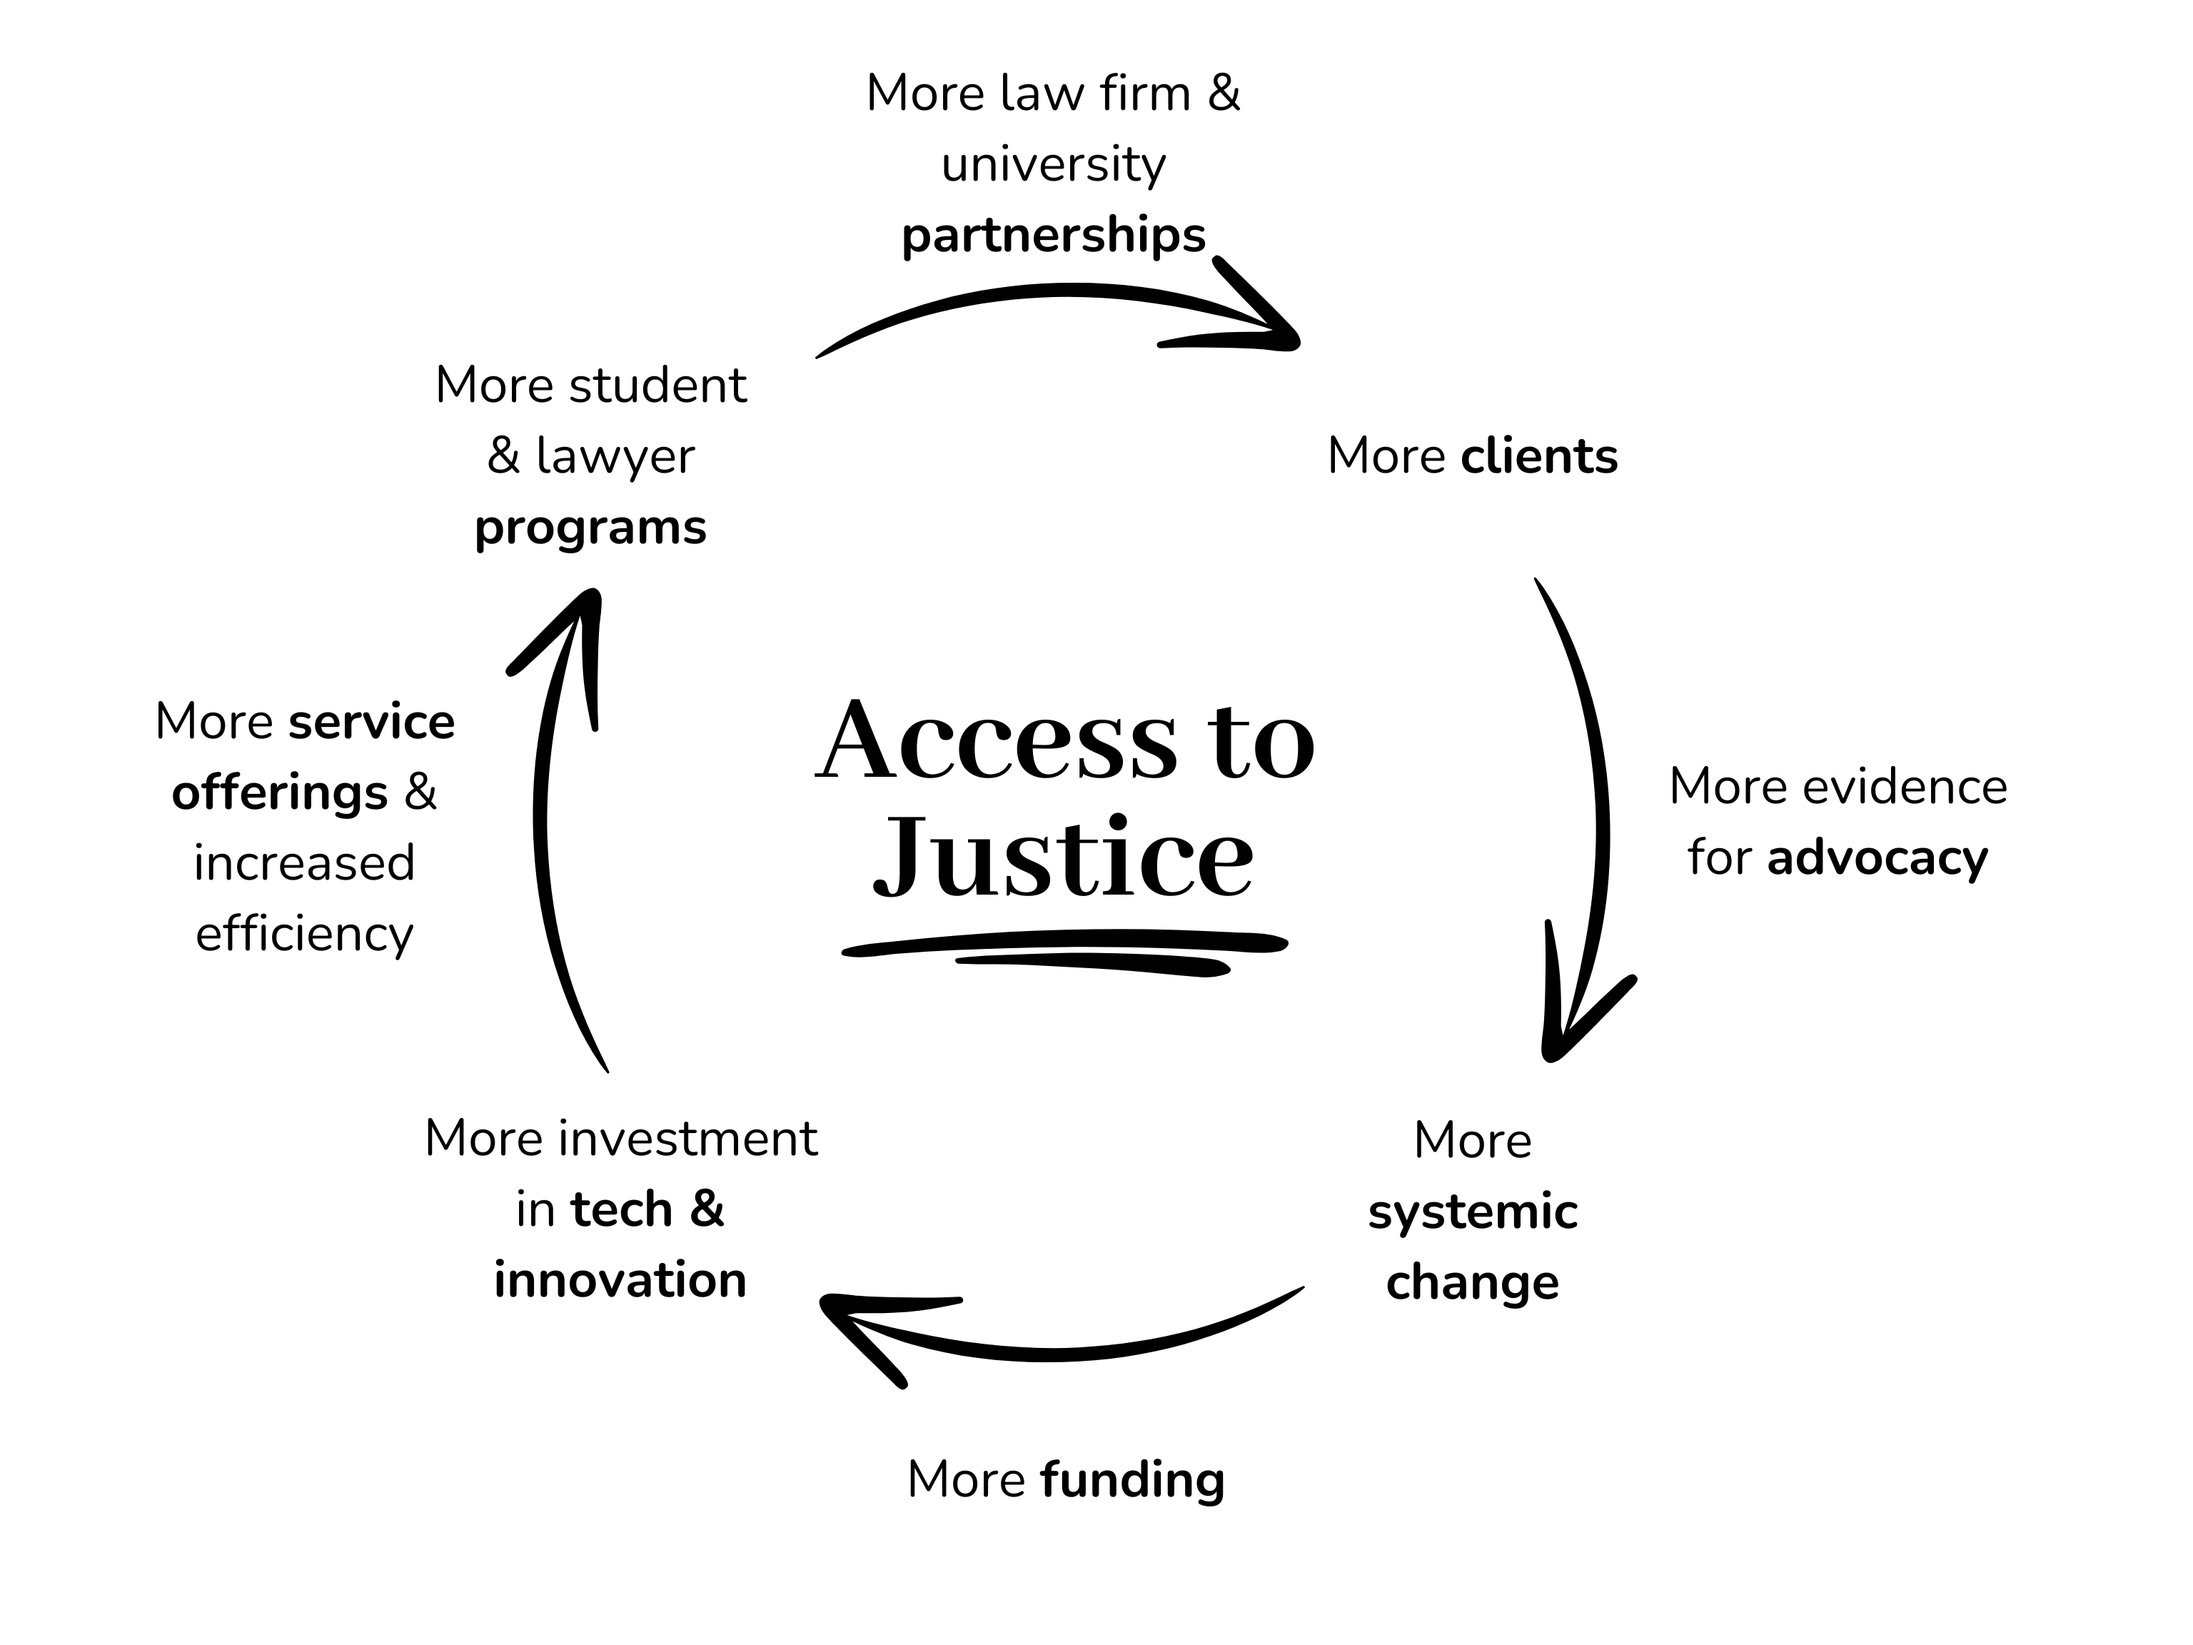
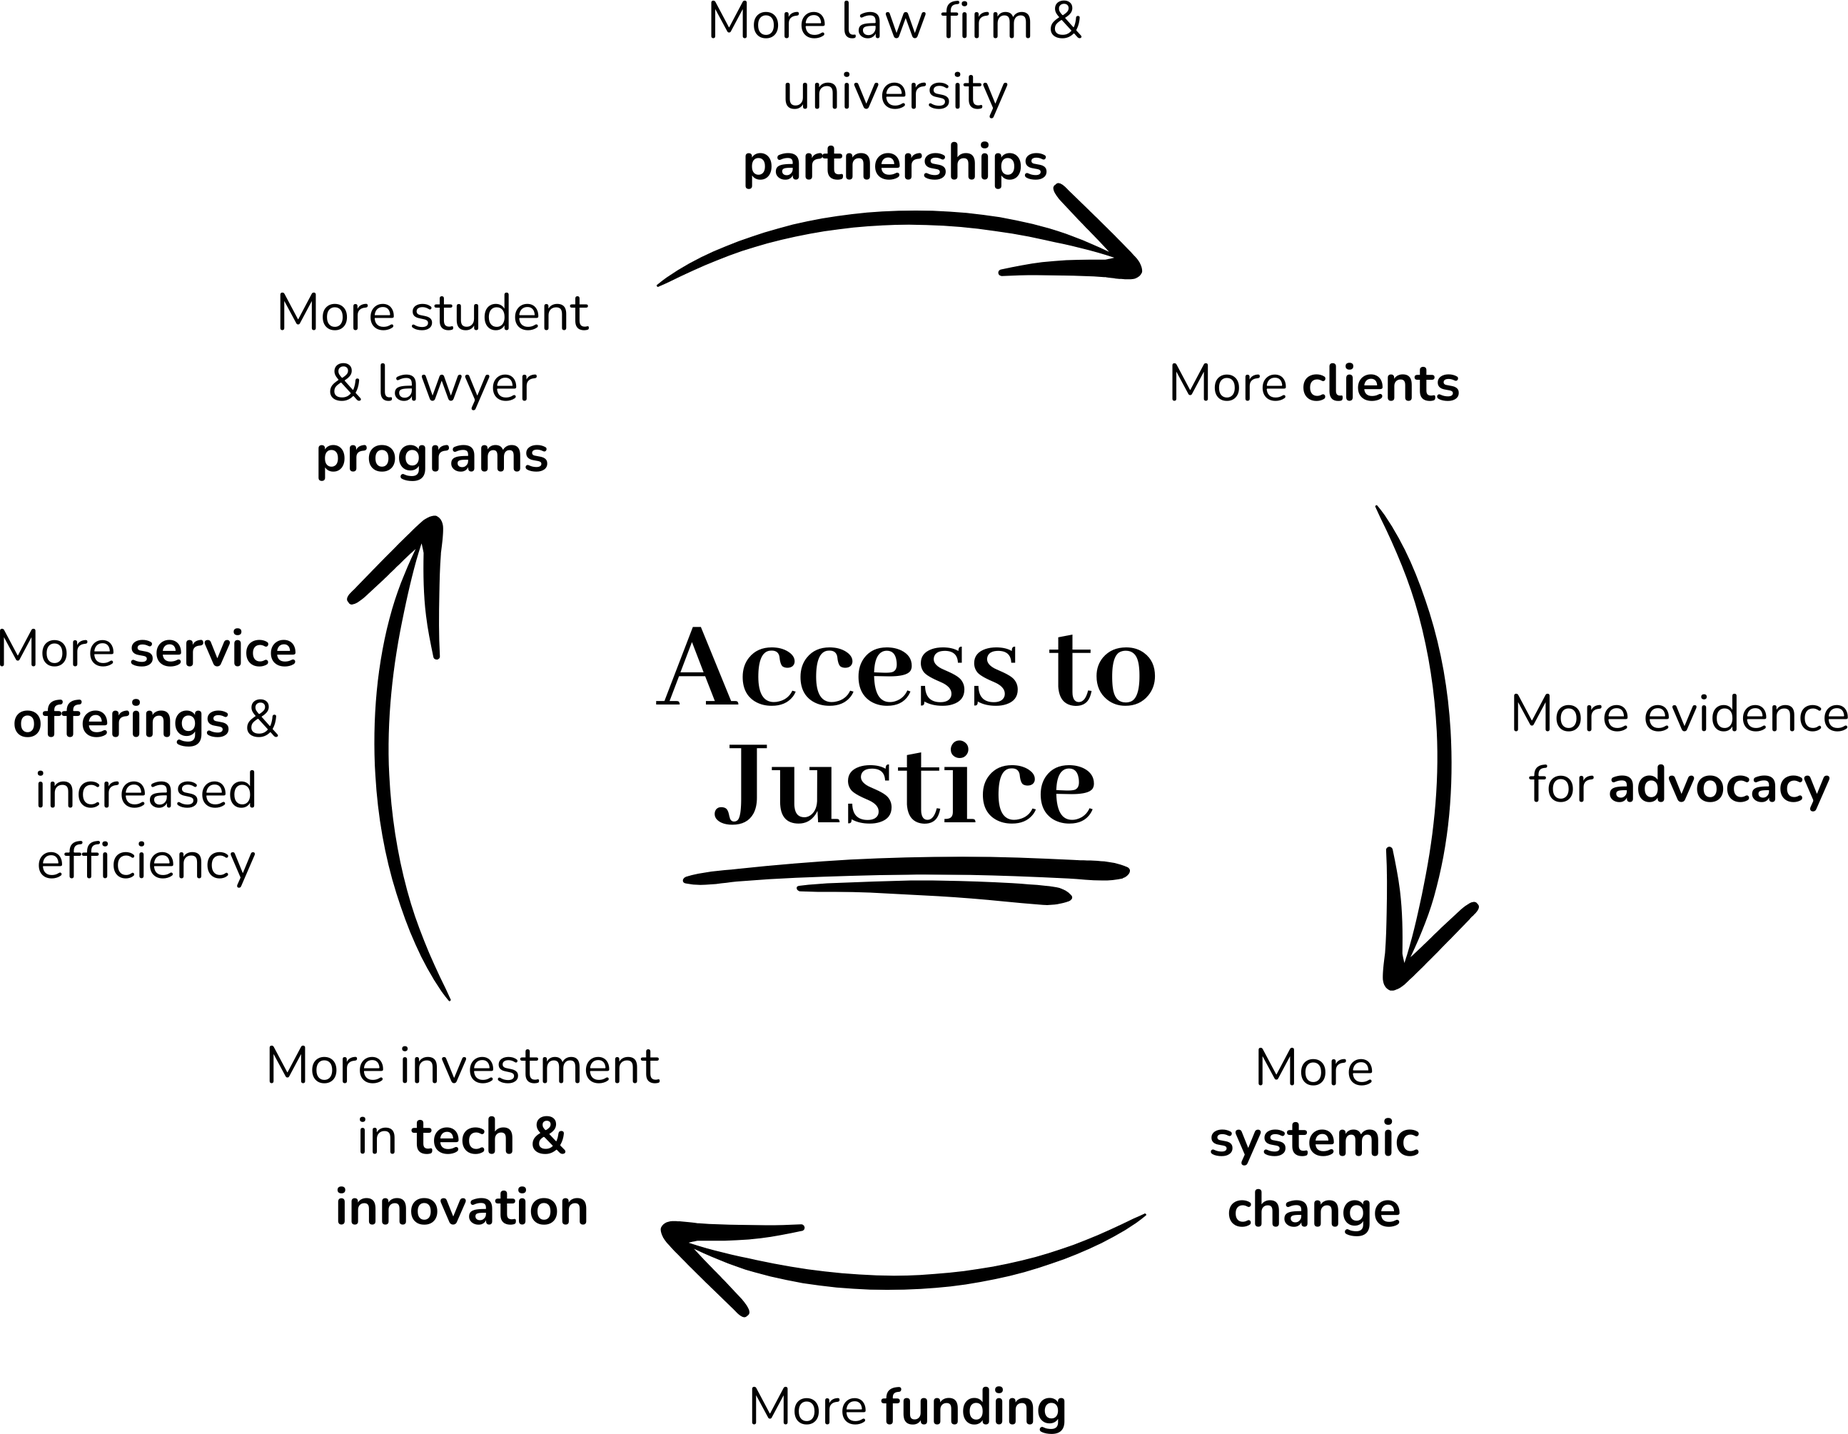
Change layout of "Achieving our Vision" section
Where there is room display text next to image. Wrap text under image on
smaller displays.

Some minor changes to spacing between sections.

Part of https://linear.app/anika-legal/issue/TEC-1372/

diff --git a/app/web/templates/web/about/about.html b/app/web/templates/web/about/about.html
@@ -2,7 +2,7 @@
 {% load static %}
 {% block title %}About{% endblock %}
 {% block social_meta %}
-{% include 'web/snippets/_social_meta.html' with title="About" description="Anika Legal provides legal assistance to people who can’t access it through practical legal education and trusted partnerships" %}
+{% include 'web/snippets/_social_meta.html' with title="About" description="Anika Legal provides legal assistance to people who can't access it through practical legal education and trusted partnerships" %}
 {% endblock %}
 
 {% block styles %}
@@ -17,17 +17,17 @@
             <p><strong>Our Vision</strong></p>
             <h2>
                 A world where everyone can <span class="callout">access
-                justice</span>
+                    justice</span>
             </h2>
             <p><strong>Our Mission</strong></p>
             <h2>
                 Empower renters to live in <span class="callout">safe
-                homes</span> with <span class="callout">dignity</span>
+                    homes</span> with <span class="callout">dignity</span>
             </h2>
         </div>
     </div>
 </div>
-<div class="segment">
+<div class="segment" style="padding-bottom: 0;">
     <div class="container wide">
         <div class="card-grid">
             <div class="card">
@@ -54,38 +54,41 @@
         </div>
     </div>
 </div>
-<div class="segment">
+<div class="segment" style="padding-top: 50px;">
     <div class="container wide">
         <h2>Achieving our Vision</h2>
         <div class="divider"></div>
-        <img class="about-graphic desktop" src="{% static 'web/img/about-graphic.png' %}">
-        <img class="about-graphic mobile" src="{% static 'web/img/about-graphic.png' %}">
-        <div class="card-grid tight">
-            <div class="card">
-                <p class="header">Casework evidence fuels advocacy for systemic
-                    change</p>
-                <p class="compact">Our ability to take on more cases aligned
-                    with our advocacy goals, empowers renters to live in safe homes
-                    and builds the evidence base for critical reforms to the housing
-                    system. This in turn improves our ability to raise funding.</p>
+        <div id="vision" class="box">
+            <div class="item graphic">
+                <img src="{% static 'web/img/about-graphic.png' %}">
             </div>
-            <div class="card">
-                <p class="header">Additional funding enables investment in
-                    innovation & technology</p>
-                <p class="compact">As Anika attracts more funding, it enables us
-                    to invest in our innovation & technology platform, which enables
-                    us to leverage untapped resources (students & lawyers) to
-                    contribute thousands of hours to housing justice. It also
-                    enables us to expand our service offerings and deliver them more
-                    efficiently.</p>
-            </div>
-            <div class="card">
-                <p class="header">Expanding our service offerings enables us to
-                    grow our student & lawyer programs</p>
-                <p class="compact">Expanding our service offerings enables us to
-                    create opportunities for more students & lawyers to contribute
-                    to access to justice. This leads to a more socially responsible
-                    legal profession.</p>
+            <div class="item text box">
+                <div class="item">
+                    <p class="header">Casework evidence fuels advocacy for systemic
+                        change</p>
+                    <p class="compact">Our ability to take on more cases aligned
+                        with our advocacy goals, empowers renters to live in safe homes
+                        and builds the evidence base for critical reforms to the housing
+                        system. This in turn improves our ability to raise funding.</p>
+                </div>
+                <div class="item">
+                    <p class="header">Additional funding enables investment in
+                        innovation & technology</p>
+                    <p class="compact">As Anika attracts more funding, it enables us
+                        to invest in our innovation & technology platform, which enables
+                        us to leverage untapped resources (students & lawyers) to
+                        contribute thousands of hours to housing justice. It also
+                        enables us to expand our service offerings and deliver them more
+                        efficiently.</p>
+                </div>
+                <div class="item">
+                    <p class="header">Expanding our service offerings enables us to
+                        grow our student & lawyer programs</p>
+                    <p class="compact">Expanding our service offerings enables us to
+                        create opportunities for more students & lawyers to contribute
+                        to access to justice. This leads to a more socially responsible
+                        legal profession.</p>
+                </div>
             </div>
         </div>
     </div>

diff --git a/app/web/static/web/styles/pages/about.css b/app/web/static/web/styles/pages/about.css
@@ -1,28 +1,80 @@
-.about-graphic {
-  width: 76%;
-  margin-left: auto;
-  margin-right: auto;
-}
-.about-graphic.desktop {
-  padding-top: 2rem;
-  padding-bottom: 2rem;
-}
-.about-graphic.mobile {
-  padding-top: 1rem;
-  padding-bottom: 1rem;
-  display: none;
-}
 .brag {
+  padding-top: 50px;
   padding-bottom: 100px;
 }
+
+/* General flexbox stuff.
+ */
+.box {
+  display: flex;
+  flex-wrap: wrap;
+}
+.box > * {
+  flex: 1;
+}
+.item {
+  min-width: 0;
+  min-height: 0;
+}
+.item img {
+  width: 100%;
+  height: 100%;
+}
+
+/* Specific
+ */
+#vision.box {
+  align-items: center;
+  justify-content: center;
+  gap: 30px;
+}
+ #vision {
+  .box {
+    gap: 30px;
+  }
+  .graphic {
+    flex: 2 0 70%;
+    padding-top: 2rem;
+    padding-bottom: 2rem;
+  }
+  .text {
+    flex-direction: column;
+    justify-content: center;
+    min-width: 300px;
+    max-width: 344px;
+  }
+  p.header {
+    margin: 0 0 0.5rem 0;
+  }
+  p {
+    line-height: normal;
+    font-size: medium;
+    text-align: left;
+  }
+ }
 @media (max-width: 1300px) {
-  .about-graphic.desktop {
-    display: none;
-  }
-  .about-graphic.mobile {
-    display: block;
-  }
   .brag {
+    padding-top: 30px;
     padding-bottom: 62px;
+  }
+  #vision {
+    .text {
+      flex-direction: row;
+      max-width: none;
+    }
+    .text > .item {
+      min-width: 300;
+      max-width: 344px;
+    }
+    p {
+      line-height: var(--body-line-height);
+      font-size: var(--body-font-size);
+      text-align: unset;
+    }
+  }
+}
+@media (max-width: 600px) {
+  #vision .text > .item {
+    max-width: 100%;
   }
 }
